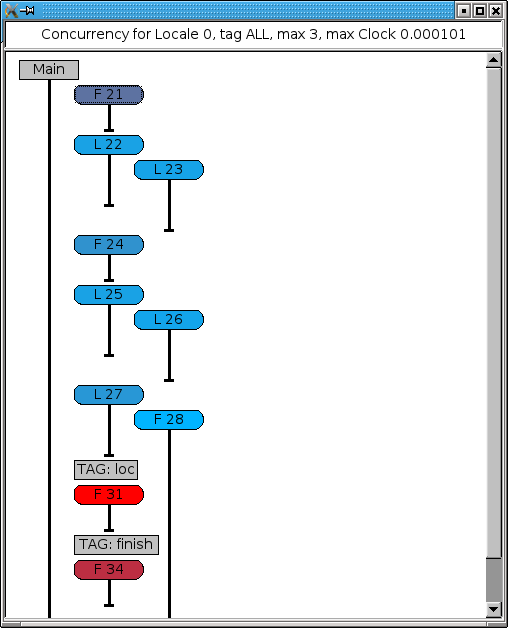
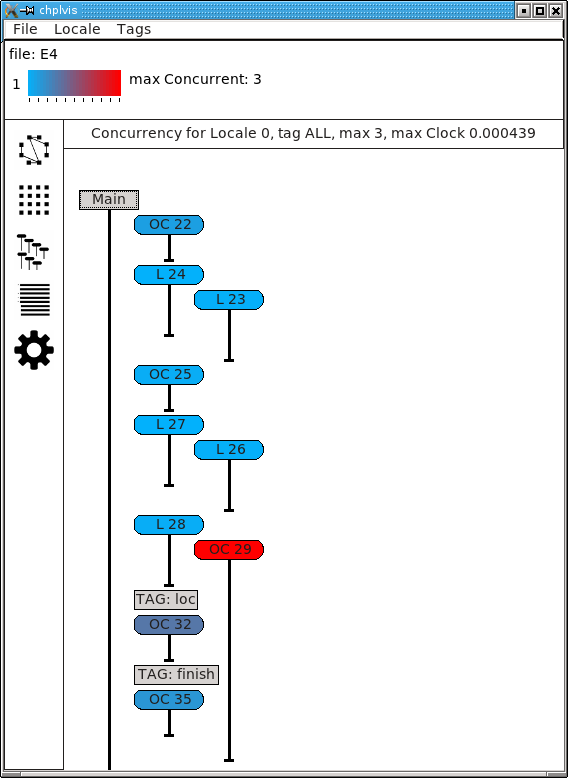
Document the current version of chplvis.    - new images for the new views    - update all screen shots    - explain the new views

Changed region(s): [[0.0, 0.0, 1.0, 1.0]]

diff --git a/doc/sphinx/source/tools/chplvis/chplvis.rst b/doc/sphinx/source/tools/chplvis/chplvis.rst
@@ -11,11 +11,12 @@ A Task and Communication Debug Tool for Chapel
 ``chplvis`` is a tool to help the Chapel programmer visualize their
 Chapel program's tasks and communication between locales.  Using the
 standard module :mod:`VisualDebug`, the programmer controls what part
-of their program generates information for chplvis.  During the run of
+of their program generates information for ``chplvis``.  During the run of
 a program using the :mod:`VisualDebug` module, data files are
 created that are used as input for ``chplvis``.  This document
 will help you understand the :mod:`VisualDebug` module and the
 ``chplvis`` tool.
+
 
 Setup
 -----
@@ -44,6 +45,7 @@ remain the same.  When the :proc:`~VisualDebug.startVdebug` is executed, a
 collection of files, one per locale, are created in a directory with the
 ``name`` given in :proc:`~VisualDebug.startVdebug`.
 
+
 Example 1
 ---------
 
@@ -68,7 +70,7 @@ Compiling the program and running it with the options ``-nl 6`` will then
 produce a directory called ``E1`` containing 6 data files, one
 for each of the locales and named ``E1-n`` where ``n`` is
 replaced with the locale number, a number from 0 to 5.  Once this
-directory is created, one can run chplvis as ``chplvis E1`` or
+directory is created, one can run ``chplvis`` as ``chplvis E1`` or
 simply ``chplvis`` and then opening the file ``E1/E1-0``
 from the ``file/open`` menu.  The resulting display is:
 
@@ -83,17 +85,40 @@ chplvis Elements
 ----------------
 
 - The *information* box shows the file set opened, which tag (see
-  `Example 2`_ ) is displayed, and provides a color bar to help visually
-  see what values are displayed for locales and communication.
+  `Example 2`_ ) is displayed, the maximum values of the data
+  currently being displayed and a color bar to help visually see what
+  values are displayed for locales and communication.  This
+  *information* box is also used to show various other information as
+  described below.
 
-- A *Locale* is represented by a colored box in the main display.  The
-  initial display draws the color of the locale to represent the
-  number of tasks run at that locale.  For example 1, we can see that
-  locale 0 has the most tasks and we expect that to be 12 since that
-  is the maximum number of tasks as shown by the color reference in
-  the information box at the top of the window.  Hover your mouse over
-  a locale and it will display a "tooltip" that is the value for
-  that locale.
+- The *view selection* box on the left edge of the display allows the
+  user to select how to view the *VisualDebug* data.  There are four
+  data views and a settings view.
+
+- The *data view area* box is the main display of data.  The data views
+  are the *graph* view, the *grid* view, the *concurrency* view and the
+  *profile* view.  The *settings* view is also displayed in the
+  *data view area*.
+
+- Menus control many aspects of ``chplvis``.   These menus are different
+  depending what data view is visible.   Also, a mouse right click
+  in the *data view area* will cause a pop-up menu to be shown that
+  is a duplicate of the data view's menus on the main menu bar.
+
+  
+Graph View
+~~~~~~~~~~
+
+The *graph view* is the default view when ``chplvis`` is run. The
+following are shown in the *graph view*:
+
+- A *Locale* is represented by a colored box.  The initial display
+  draws the color of the locale to represent the number of tasks run
+  at that locale.  For example 1, we can see that locale 0 has the
+  most tasks and we expect that to be 12 since that is the maximum
+  number of tasks as shown by the color reference in the information
+  box at the top of the window.  Hover your mouse over a locale and it
+  will display a "tooltip" that is the value for that locale.
 
 - *Communication links* are shown by lines between two
   locale boxes.  The color of the line adjacent to a locale box
@@ -110,7 +135,7 @@ chplvis Elements
     communication is only one way, the communication color for *no
     communication* is gray.
 
-- The *Data menu* controls what data is used for the display colors
+- The *Data* menu controls what data is used for the display colors
   and available tooltip values.  This initial data is number of tasks
   for locales and number of communications calls for the communication
   links.  For locales, one can select number of tasks, CPU time, clock
@@ -118,31 +143,50 @@ chplvis Elements
   across all locales.  For the communication links, one can select
   number of communications or size of data sent.
 
-Display Interaction
--------------------
+- The *View* menu allows the user to zoom in or out in the data display.
 
-Clicking on elements of the display will bring up more information.
-Clicking on a locale will open a new window for that locale showing
-information for that locale.  In example 1, clicking on locale 0 when
-the locale data is 'number of tasks', 'CPU time' or 'clock time' will
-produce a window that looks like:
+Grid View
+~~~~~~~~~
 
-.. image:: E1-L0.png
+The *grid view* displays the same information as the *graph view* but in
+a different format. The *grid view* display looks like:
 
-(Note: There is overhead generated in tasks, CPU time, clock time and
-communication for the Visual Debug function calls.  ``chplvis`` removes
-the overhead tasks and communication from displayed values, but it can
-not remove the CPU and clock time overhead.)
+.. image:: E1-grid.png
+
+The elements of the *grid view* are:
+
+- Each *Locale* is shown twice in this view, vertical on the left of
+  the view and horizontal along the top of the view.  The top most
+  and left most locales represent *locale 0*.  (If the box is big enough,
+  the locale number is placed in the box.  With a large number of locales
+  displayed, they locale number may be too big to fit in the display box.)
+
+- *Communication links* are shown as boxes in the center of the display.
+  Data transmission is *from* locale i on the left *to* locale j on the top
+  and is shown in the box on row i and column j.  This box is colored to
+  represent the amount of data sent from locale i to locale j.  (This is
+  either the number of communications or the size of data sent as controlled
+  by the *Data* menu.)  Communication boxes with no color represent no
+  communication.  (The diagonal will always be white since no locale sends
+  data to itself over the communication subsystem.)
+
+- The menus for the *grid view* are the same as the *graph view*.
 
 .. _`Concurrency View`:
+  
+Concurrency View
+~~~~~~~~~~~~~~~~
 
-When the locale data selected is 'concurrency', clicking on a locale
-will bring up a window that shows a task time line for the locale.
-This display shows the order the tasks are executed and the color of
-each task shows the clock time for that task.  The black vertical vertical
+The *concurrency view* shows task information for a single locale.  Chapel
+programs run by starting low level tasks to do the required jobs. This
+display shows the order the tasks are executed and the color of each
+task shows the clock time for that task.  The black vertical vertical
 lines show the life time of the task.  There are two kinds of tasks
-shown: tasks forked to this locale indicated by an *F* and tasks
-started locally indicated by an *L*.
+shown: tasks started remotely via the "on" statements (on calls) to
+this locale indicated by an *OC* and tasks started locally indicated
+by an *L*.  Also, some tasks communicate with other locales and others
+do not.   The tasks that communicate with other locales are marked with
+an asterisk before the *OC* or *L*.
 
 .. note::
 
@@ -154,29 +198,84 @@ started locally indicated by an *L*.
 Note the special *Main* task.  It is shown as a square gray box because
 it was already running at the start of the displayed data.
 
-In this concurrency display, hovering the mouse over a task will bring
-up a "tooltip" that shows the clock time taken by that task, the
-number of *gets*, *puts* and *forks* performed by that task and if
-available, the source file name and line number of the code that
-started that task.  If the task has communication, clicking on the
-task will cause the task's communications to be listed in the window
-similar to the following:
+Menus allow the user to change the displayed locale and tag.  The
+above example does not show the tags menu because no tags were
+defined for this example program.
 
-.. image:: E1-L0-tc.png
 
-The number in brackets is the clock time since the task started
-execution.   This list gives details about the *gets*, *puts* and
-*forks* initiated by this task.
+Profile View
+~~~~~~~~~~~~
 
-In the main window, clicking on a communication line will create a
-window with communication information for that link.  Clicking red
-part of the line between locale 0 and locale 1 will produce a window
+Chapel programs are run by the runtime executing tasks.  Each task runs
+an *internal function*.   These functions are generated by the compiler and
+the VisualDebug system tracks these functions and tasks.   In the *profile
+view*, these functions are displayed.   Data collected for each function is
+total CPU and clock time spent in the function as well as the number of
+puts, gets and 'on calls' performed by the function.   This view sorts the
+list of internal functions based on the chosen data.  The default data
+is clock time.  Functions with a zero value are not displayed, so not
+every function will be displayed for all data selections.  Each line
+shows the data (e.g. clock), the internal function name which may not
+make much sense to the developer, and the Chapel source file and line number
+that for which the task was created.  The following
+as an example of the *profile view*.
+
+.. image:: E1-prof.png
+
+.. note::
+
+   Clock time for a function is total time for all tasks that
+   run in that function.  This shows a total accumulation of time, but
+   it does not show the effects of concurrency on running time of the
+   program.  At the current time, the data does not easily yield the
+   total time a function contributes to the overall time of a program.
+
+Settings
+~~~~~~~~
+
+``chplvis`` has two settings that are set by a *settings view* and are
+saved in a file named ``~/.cache/chplvis``.   First, the user can
+select custom colors for the 'heat' displays.  The standard colors are
+used in this document.  Next, ``chplvis`` can save the window size
+of the main display for use on the next execution.   Both of these
+settings are set in the settings window.  The settings window is
+opened via the ``file/settings`` menu option.  The settings window
+looks like:
+
+.. image:: S1.png
+
+The ``Use for this run only`` button allows the user to choose custom
+heat colors for the current run only and on the next run, the default
+or saved colors will be used.   The ``window size`` setting is 
+ignored when this button is clicked.
+   
+   
+Display Interaction
+-------------------
+
+Clicking on elements of the display will bring up more information.
+In *graph view* and *grid view*, clicking on a locale will add a box
+to the *information* box with the information about that locale.  In
+example 1, clicking on locale 0 when the locale data is 'number of
+tasks', 'CPU time' or 'clock time' will produce a display that looks
+like:
+
+.. image:: E1-L0.png
+
+(Note: There is overhead generated in tasks, CPU time, clock time and
+communication for the Visual Debug function calls.  ``chplvis`` removes
+the overhead tasks and communication from displayed values, but it can
+not remove the CPU and clock time overhead.)
+
+In *grid view*, clicking on a communication line will create an
+*information* box with communication information for that link.  Clicking red
+part of the line between locale 0 and locale 1 will produce a display
 that looks like:
 
 .. image:: E1-C1.0.png
 
 It is important to notice the direction of the *arrow* in the header
-for the windows.  This is for communication from locale 1 to locale 0.
+for the box.  This is for communication from locale 1 to locale 0.
 The total number of communication calls was 12.  It is further broken
 out into three components:
 
@@ -186,10 +285,47 @@ out into three components:
   - *Puts:* This is a communication call initiated by *locale 1*
     to put data from locale 1 onto locale 0.
 
-  - *Forks:* This where *locale 1* starts a task running
+  - *On Calls:* This where *locale 1* starts a task running
     on locale 0.  As part of the task start, a block of data is sent to
     locale 0 as an argument to the task.  This data is considered a
     communication call  by *chplvis*.
+
+The same communication information box is presented in *grid view* when
+a communication box is clicked.
+
+When the locale data selected is 'concurrency' in *graph view* or
+*grid view*, clicking on a locale will switch to the 
+`Concurrency View`_ and select the locale which was clicked.
+
+In the *Concurrency View*, clicking on a task that has communication
+(noted by the asterisk) will bring up a list of communications.  This
+looks like:
+
+.. image:: E1-L0-tc.png
+
+The number in brackets is the clock time since the task started
+execution.   This list gives details about the *gets*, *puts* and
+*on calls* initiated by this task.
+
+In this list, clicking on any line that has a file name will bring up
+that source code file and position the display on the line responsible
+for the communication.  This line in the source code file is
+highlighted.
+
+.. image:: E1-L0-cf.png
+
+In a similar way, in the *Profile View*, clicking on a function line
+will also display the file and line, highlighted, of the line that
+caused the internal function to be defined.
+
+*Tool tips* are available in several of the data views.  Locales
+in the *graph* and *grid* views have tool tips that show the value
+selected for display, for example, the clock time.  In the *grid view*,
+the communication squares have tool tips showing the communication value
+selected.  In the *concurrency view*, tool tips show the communication
+values and in the case of a local task, the file and line number that
+called that task.
+
 
 .. _`Example 2`:
 
@@ -272,7 +408,7 @@ the first call to :proc:`~VisualDebug.tagVdebug()`, in this case, ``tagVdebug("w
 You should be able to immediately see that
 
   - Locale 0 has 3 tasks and all other locales do not have any tasks.
-    (Task boxes colored white mean no tasks.)
+    (Locale boxes colored white mean no tasks at that locale.)
     This means that locale 0 is doing all the computation.
 
   - The majority of communication is happening from other locales to
@@ -417,8 +553,9 @@ results by running ``chplvis`` multiple times.  By a good choice of
 the *compLoop* variable, one can dramatically reduce the CPU time for
 computing the *max* while not increasing the *computation* time by much.
 
+
 Example 4
-_________
+---------
 
 To help show another feature of the "`Concurrency View`_", prog4.chpl was
 written to create a *begin* task on all locales and have those tasks
@@ -481,7 +618,7 @@ Things to notice from this view are
 
   - In the *tag ALL* view, tags are shown in the sequence of tasks.
 
-  - Task *F 28* is started before the *loc* tag, but it finishes
+  - Task *OC 29* is started before the *loc* tag, but it finishes
     in the *finish* tag.
 
 .. image:: E4-2.png
@@ -520,35 +657,11 @@ If this is set to `false` at compile time
 then :param:`~VisualDebug.VisualDebugOn` must be set to `true`
 on the execution command line to generate :mod:`VisualDebug` data.
 
-Settings
---------
-
-``chplvis`` has two settings that are set by a settings window and are
-saved in a file named ``~/.cache/chplvis``.   First, the user can
-select custom colors for the 'heat' displays.  The standard colors are
-used in this document.  Next, ``chplvis`` can save the window size
-of the main display for use on the next execution.   Both of these
-settings are set in the settings window.  The settings window is
-opened via the ``file/settings`` menu option.  The settings window
-looks like:
-
-.. image:: S1.png
-
-The ``Use for this run only`` button allows the user to choose custom
-heat colors for the current run only and on the next run, the default
-or saved colors will be used.   The ``window size`` setting is 
-ignored when this button is clicked.
 
 Final Comments
 --------------
 
 The following items are not covered above:
-
-  - By clicking on the locale box or a communication link, a window
-    with more detailed information is presented.  To make it easier
-    to close those windows, a second click on the same location will
-    close the window.   The *Windows* menu allows one to close
-    or show all previously created locale and communication windows.
 
   - The command line for ``chplvis`` is::
 
